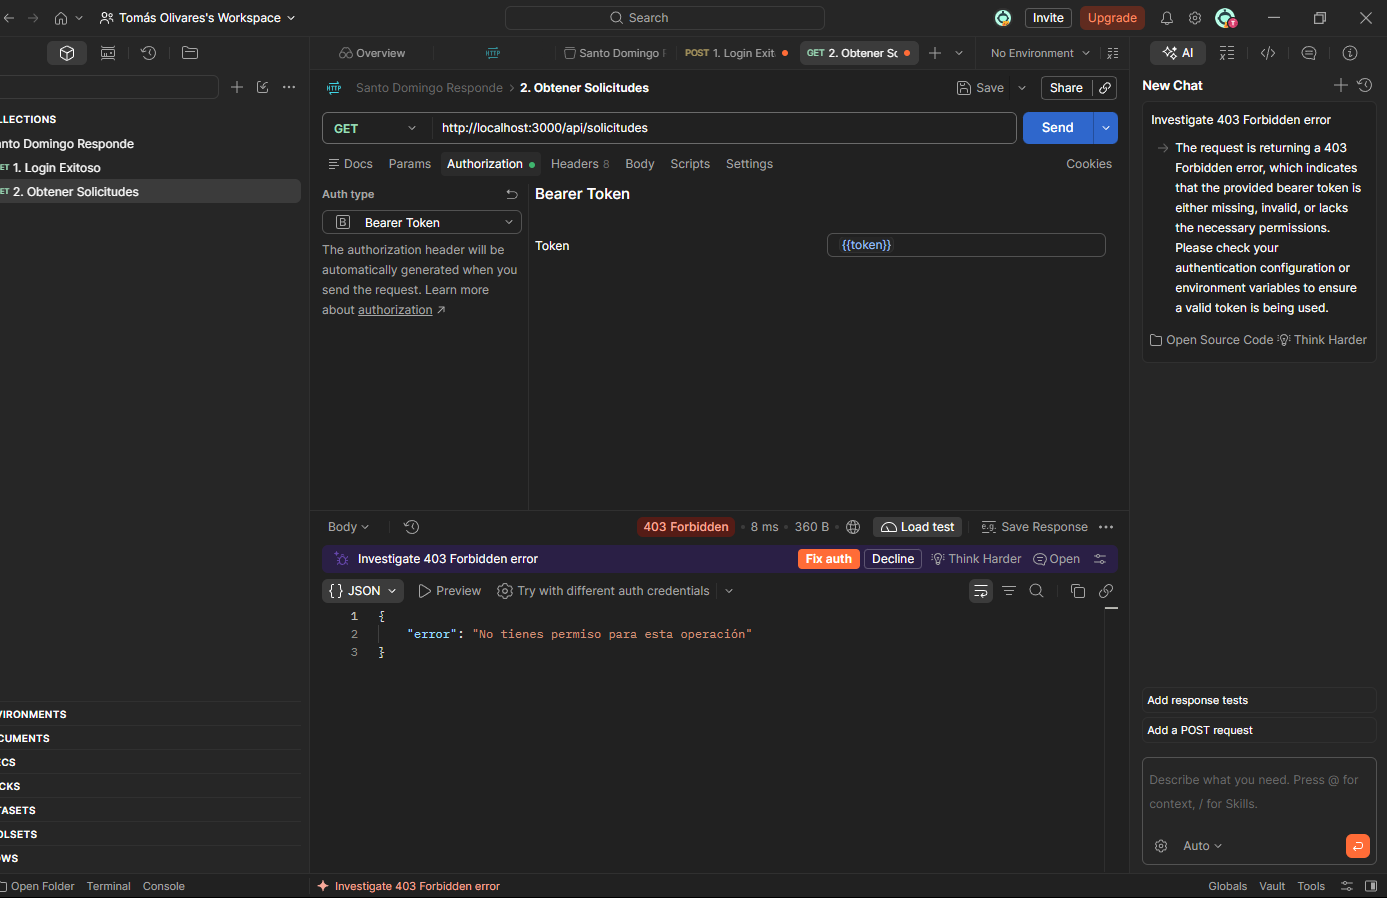
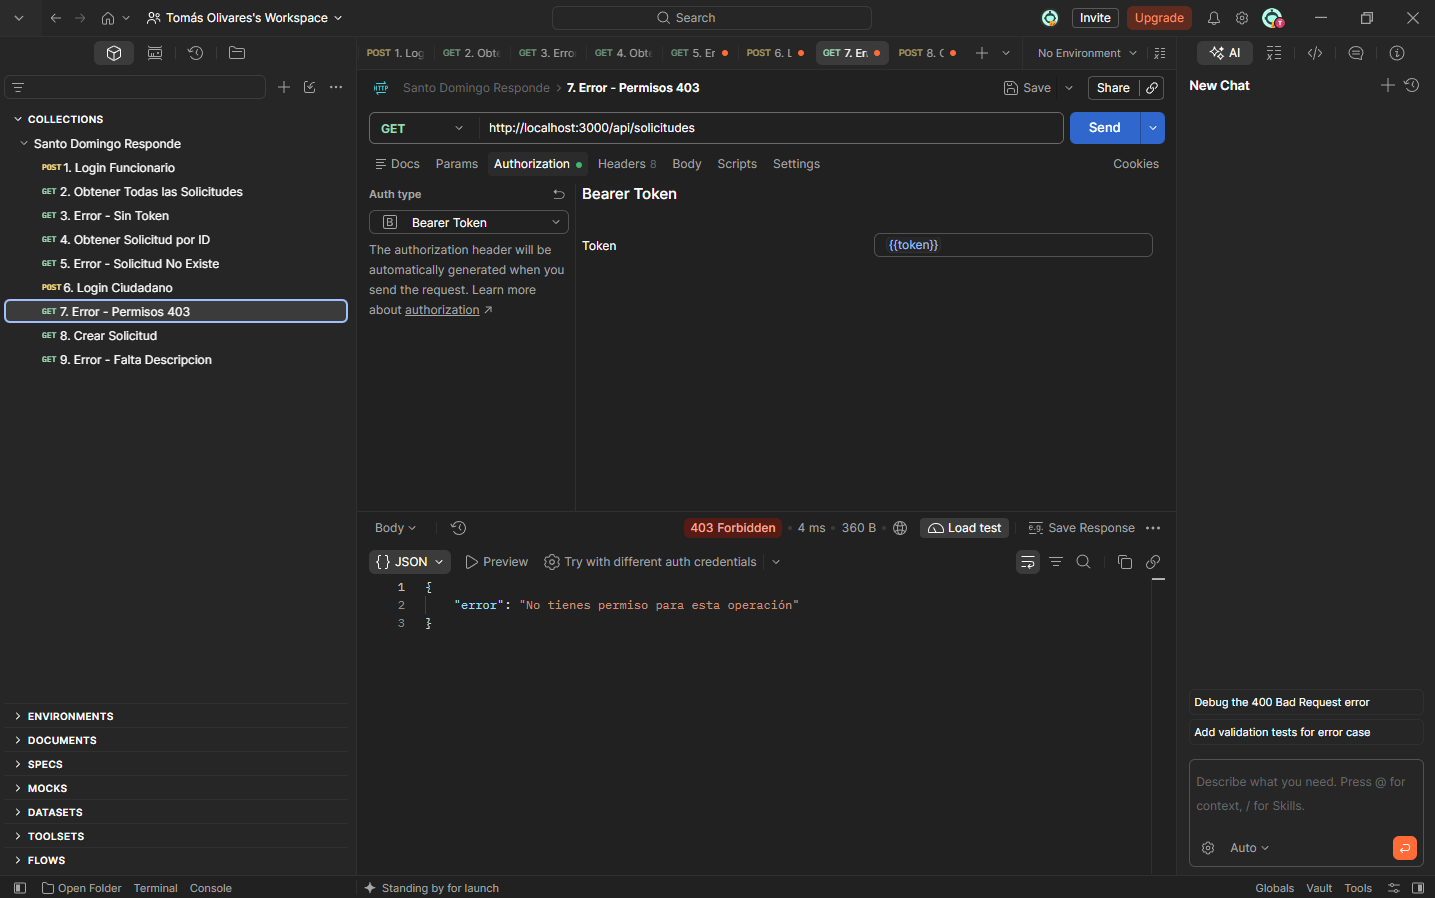
Coleccion de Postman con los endpoints y capturas finales

diff --git a/backend/postman/endpoints.md b/backend/postman/endpoints.md
@@ -1,9 +1,6 @@
-# Documentación de Endpoints - Santo Domingo Responde
-
 | Método | Ruta | Requiere Token | Body / Payload | Respuesta Exitosa | Posibles Errores |
 |--------|------|----------------|----------------|-------------------|------------------|
-| **POST** | `/api/auth/login` | No | `{"email": "...", "password": "..."}` | `200 OK` (Devuelve el Token JWT) | `401 Unauthorized` (Credenciales inválidas) |
-| **GET** | `/api/solicitudes` | Sí | Ninguno | `200 OK` (Array con solicitudes) | `401 Unauthorized` (Falta token o es inválido) |
+| **POST** | `/api/auth/login` | No | `{"correo": "...", "password": "..."}` | `200 OK` (Devuelve el Token JWT) | `401 Unauthorized` (Credenciales inválidas) |
+| **GET** | `/api/solicitudes` | Sí | Ninguno | `200 OK` (Array con solicitudes) | `401 Unauthorized`, `403 Forbidden` |
 | **GET** | `/api/solicitudes/:id` | Sí | Ninguno | `200 OK` (Detalle de la solicitud) | `404 Not Found` (La solicitud no existe) |
 | **POST** | `/api/solicitudes` | Sí (Ciudadano) | `{"tipo": "...", "direccion": "...", "descripcion": "..."}` | `201 Created` (Solicitud creada) | `400 Bad Request` (Falta descripción u otro campo) |
-| **PUT** | `/api/solicitudes/:id/estado`| Sí (Funcionario) | `{"estado_nuevo": "..."}` | `200 OK` (Estado y tabla historial actualizados) | `403 Forbidden` (Si un ciudadano intenta entrar) |
